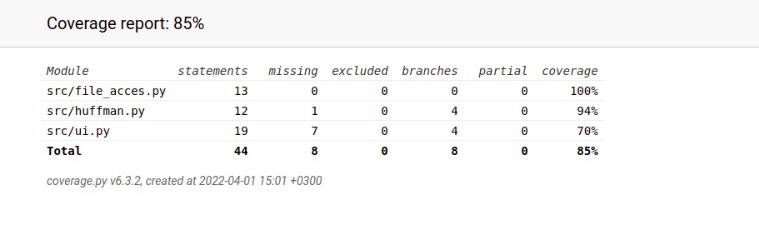
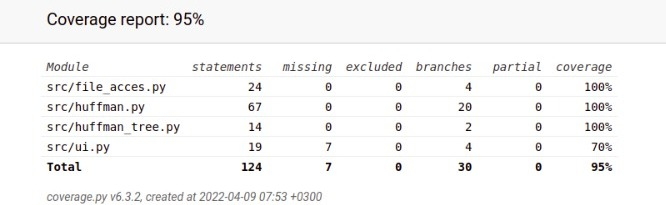
huffman

diff --git a/src/huffman.py b/src/huffman.py
@@ -1,15 +1,80 @@
+import heapq
 import string
+from huffman_tree import create_node, add_node
 
 def huffman(text):
-    frequencies_dict = get_frequencies(text)
-    #make binary tree
-    # make file
+    frequencies = get_frequencies(text)
+    nodes = make_nodes_heap(frequencies)
+    tree = make_tree(nodes)
+    codes = calculate_codes(tree)
+    binary_for_huffman = make_huffman(codes, text)
+    return get_everything_in_bin(binary_for_huffman, tree)
 
 def get_frequencies(text):
-    frequencies_dict = {}
+    frequencies = {}
     letters = string.printable
     for letter in letters:
-        frequencies_dict[letter] = 0
+        frequencies[letter] = 0
     for letter in text:
-        frequencies_dict[letter] += 1
-    return frequencies_dict
+        frequencies[letter] += 1
+    return frequencies
+
+def make_nodes_heap(frequencies):
+    nodes = []
+    for symbol, value in frequencies.items():
+        if value != 0:
+            node = create_node(value, symbol)
+            nodes.append((value, node))
+    heapq.heapify(nodes)
+    return nodes
+
+def make_tree(nodes):
+    while len(nodes) > 1:
+        node1 = heapq.heappop(nodes)[1]
+        node2 = heapq.heappop(nodes)[1]
+        new_node = add_node(node1, node2)
+        heapq.heappush(nodes, (new_node.value, new_node))
+    return heapq.heappop(nodes)[1]
+
+def calculate_codes(point, codes={}, code=""):
+    if point.left_child:
+        code0 = code + "0"
+        codes = calculate_codes(point.left_child, codes, code0)
+    if point.right_child:
+        code1 = code + "1"
+        codes = calculate_codes(point.right_child, codes, code1)
+    if point.symbol:
+        codes[point.symbol] = code
+    return codes
+
+def make_huffman(codes, text):
+    binary_for_huffman = ""
+    for symbol in text:
+        binary_for_huffman += codes[symbol]
+    return binary_for_huffman
+
+def get_everything_in_bin(binary_form, tree):
+    tree_in_binary = tree_to_binary(tree)
+    tree_lenght_bin = format(len(tree_in_binary), "016b")
+    data_lenght_bin = format(len(binary_form), "016b")
+    #lenght of tree in bin, lenght of the data in bin, tree in bin, data in bin, couple extra bits
+    over_from_bytes = (32 + len(tree_in_binary) + len(binary_form)) % 8
+    extra_bits_needed = 8 - over_from_bytes
+    extra_bits = "0" * extra_bits_needed
+    to_save = tree_lenght_bin + data_lenght_bin + tree_in_binary + binary_form + extra_bits
+    return to_save
+
+def tree_to_binary(tree, tree_in_binary=""):
+    # 0 for leaf, 1 has children, left 1st right 2nd
+    if tree.symbol:
+        tree_in_binary += "1"
+        symbol_in_ascii = ord(tree.symbol)
+        symbol_in_binary = format(symbol_in_ascii, '07b')
+        tree_in_binary += symbol_in_binary
+    else:
+        tree_in_binary += "0"
+        tree_in_binary = tree_to_binary(tree.left_child, tree_in_binary)
+        tree_in_binary = tree_to_binary(tree.right_child, tree_in_binary)
+    return tree_in_binary
+
+#dehuffing

diff --git a/src/tests/huffman_test.py b/src/tests/huffman_test.py
@@ -1,9 +1,10 @@
 import unittest
 import huffman
+import heapq
 
 class TestHuffman(unittest.TestCase):
     def setUp(self):
-        pass
+        self.freq_dict = {"a": 4, "n": 1, "b": 0, "4": 2}
 
     def test_get_frequencies(self):
         text1 = "aabbcc"
@@ -22,9 +23,61 @@ class TestHuffman(unittest.TestCase):
         self.assertEqual(dict2["."], 1)
         self.assertEqual(dict2["&"], 1)
 
+    def test_heap_creation(self):
+        nodes_heap = huffman.make_nodes_heap(self.freq_dict)
+        self.assertEqual(len(nodes_heap), 3)
+        tupple = heapq.heappop(nodes_heap)
+        node = tupple[1]
+        self.assertEqual(node.symbol, "n")
+        self.assertEqual(node.value, 1)
+        self.assertEqual(tupple[0], 1)
+        heapq.heappop(nodes_heap)
+        tupple = heapq.heappop(nodes_heap)
+        node = tupple[1]
+        self.assertEqual(node.symbol, "a")
+        self.assertEqual(node.value, 4)
 
+    def test_tree_creation(self):
+        nodes_heap = huffman.make_nodes_heap(self.freq_dict)
+        node = huffman.make_tree(nodes_heap)
+        node1 = node.right_child
+        self.assertEqual(node1.symbol, "a")
+        self.assertEqual(node1.value, 4)
+        self.assertEqual(node1.left_child, None)
+        self.assertEqual(node1.right_child, None)
+        node2 = node.left_child.right_child
+        self.assertEqual(node2.symbol, "4")
+        node3 = node.left_child
+        self.assertEqual(node3.value, 3)
+        self.assertEqual(node3.symbol, None)
 
+    def test_symbols_can_have_same_frequencies(self):
+        same_frequencies = {"a": 4, "b": 4}
+        nodes_heap  =huffman.make_nodes_heap(same_frequencies)
+        tree = huffman.make_tree(nodes_heap)
+        self.assertEqual(1,1) #if it makes it here woth out an error it works:D
 
+    def test_calculates_correct_codes(self):
+        nodes_heap = huffman.make_nodes_heap(self.freq_dict)
+        node = huffman.make_tree(nodes_heap)
+        codes = huffman.calculate_codes(node)
+        print(codes)
+        self.assertEqual(codes["n"],"00")
+        self.assertEqual(codes["4"],"01")
+        self.assertEqual(codes["a"],"1")
 
+    def test_make_huffman(self):
+        codes = {'n': '00', '4': '01', 'a': '1'}
+        text = "aa4na4"
+        binary_for_huffman = huffman.make_huffman(codes, text)
+        self.assertEqual(binary_for_huffman, "110100101")
+    
+    def test_tree_to_binary(self):
+        nodes_heap = huffman.make_nodes_heap(self.freq_dict)
+        node = huffman.make_tree(nodes_heap)
+        tree_in_binary = huffman.tree_to_binary(node)
+        self.assertEqual("00111011101011010011100001", tree_in_binary)
 
-
+    def test_makes_correct_binary(self):
+        bin_huff = huffman.huffman("aa4na4")
+        self.assertEqual(bin_huff, "000000000001101000000000000010010011101110101101001110000111010010100000" )

diff --git a/src/tests/file_test.py b/src/tests/file_test.py
@@ -6,6 +6,7 @@ class TestFile_acces(unittest.TestCase):
         self.file_path = "src/tests/test_file.txt"
         self.content = "i am a a very important file for the tests. So please do not edit me!"
         self.size = 69
+        self.byte_path = "src/tests/test_byte_file.txt"
 
     def test_gets_correct_content(self):
         on_file = file_acces.open_file(self.file_path)
@@ -23,3 +24,9 @@ class TestFile_acces(unittest.TestCase):
     def test_tells_correct_size(self):
         file_size = file_acces.get_file_size(self.file_path)
         self.assertEqual(self.size, file_size)
+
+    def test_binary_save(self):
+        bina = "1111000011001100"
+        file_acces.write_bytes(self.byte_path, bina )
+        on_file = file_acces.read_bytes(self.byte_path)
+        #self.assertEqual(bina, on_file)

diff --git a/src/file_acces.py b/src/file_acces.py
@@ -1,5 +1,6 @@
 import os
 
+
 def open_file(file_path):
     file = open(file_path, "r")
     content = file.read()
@@ -12,6 +13,19 @@ def create_file(file_path, content):
     file.close()
 
 def get_file_size(file_path):
-    #bytes!
     file_size = os.stat(file_path)
     return file_size.st_size
+
+def read_bytes(file_path):
+    #no working apparently
+    file = open(file_path, "rb")
+    content = file.read()
+    print(content)
+    bina = ''.join(format(ord(byte), '08b') for byte in str(content)[1:])
+    return bina
+
+def write_bytes(file_path, content):
+    bytes_to_write  = bytes(int(content[i : i +8], 2) for i in range(0, len(content), 8))
+    bin_file = open(file_path, "wb")
+    bin_file.write(bytes_to_write)
+    bin_file.close()

diff --git a/src/huffman_tree.py b/src/huffman_tree.py
@@ -1,0 +1,20 @@
+class Nodde:
+    def __init__(self, value, symbol, left_child=None, right_child=None) -> None:
+        self.value = value
+        self.left_child = left_child
+        self.right_child = right_child
+        self.symbol = symbol
+    
+    def __gt__(self, another_nodde):
+        ''' This makes heaps work if there are 2 or more same frequencies in data
+        '''
+        return True
+        
+
+def create_node(value, symbol):
+    new_node = Nodde(value, symbol)
+    return new_node
+
+def add_node(left_child, right_child):
+    new_node = Nodde(left_child.value + right_child.value, None, left_child, right_child)
+    return new_node
